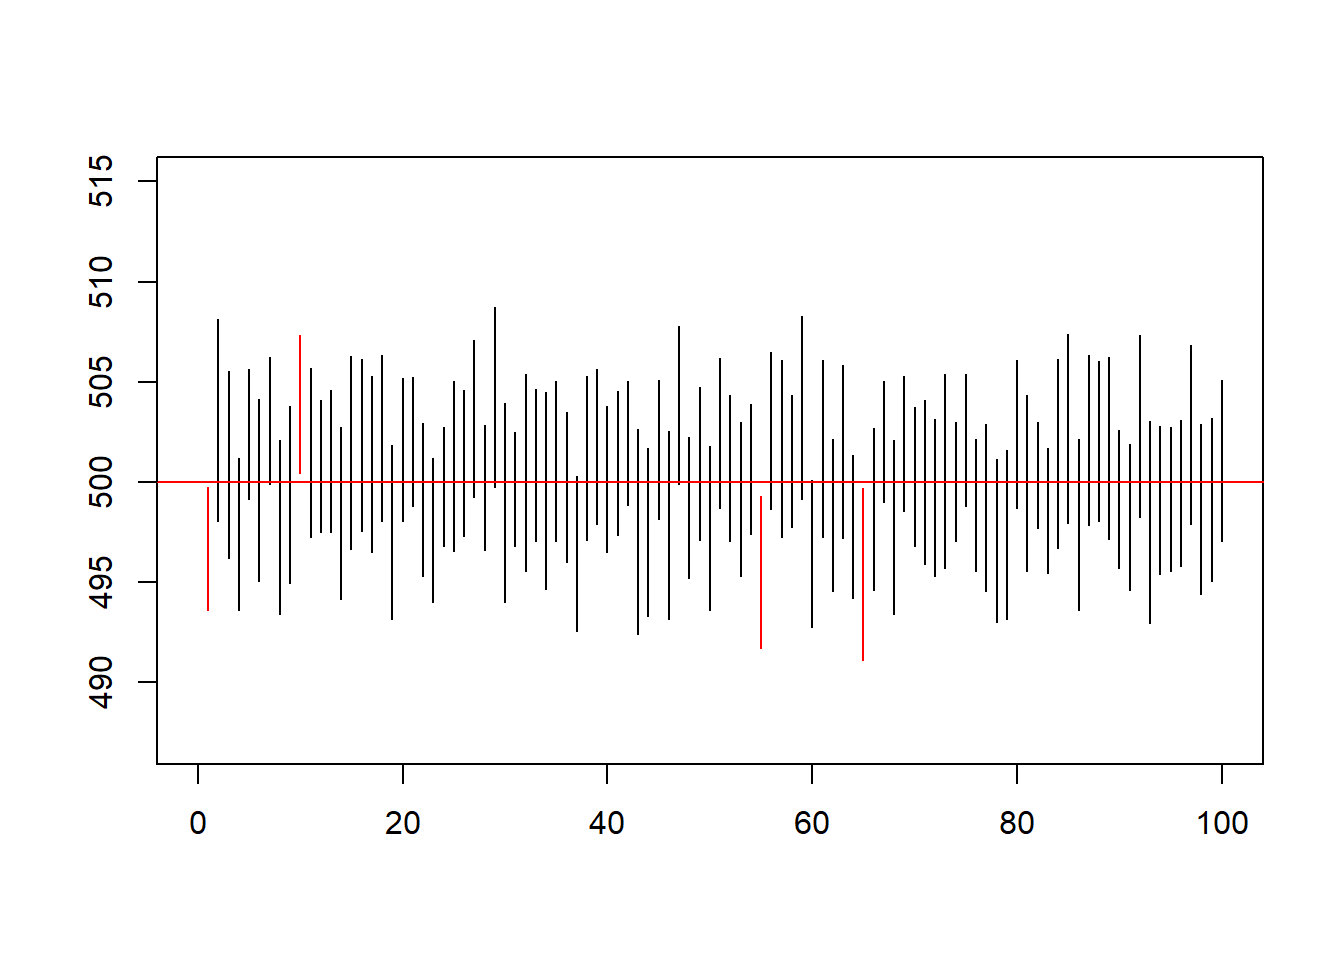
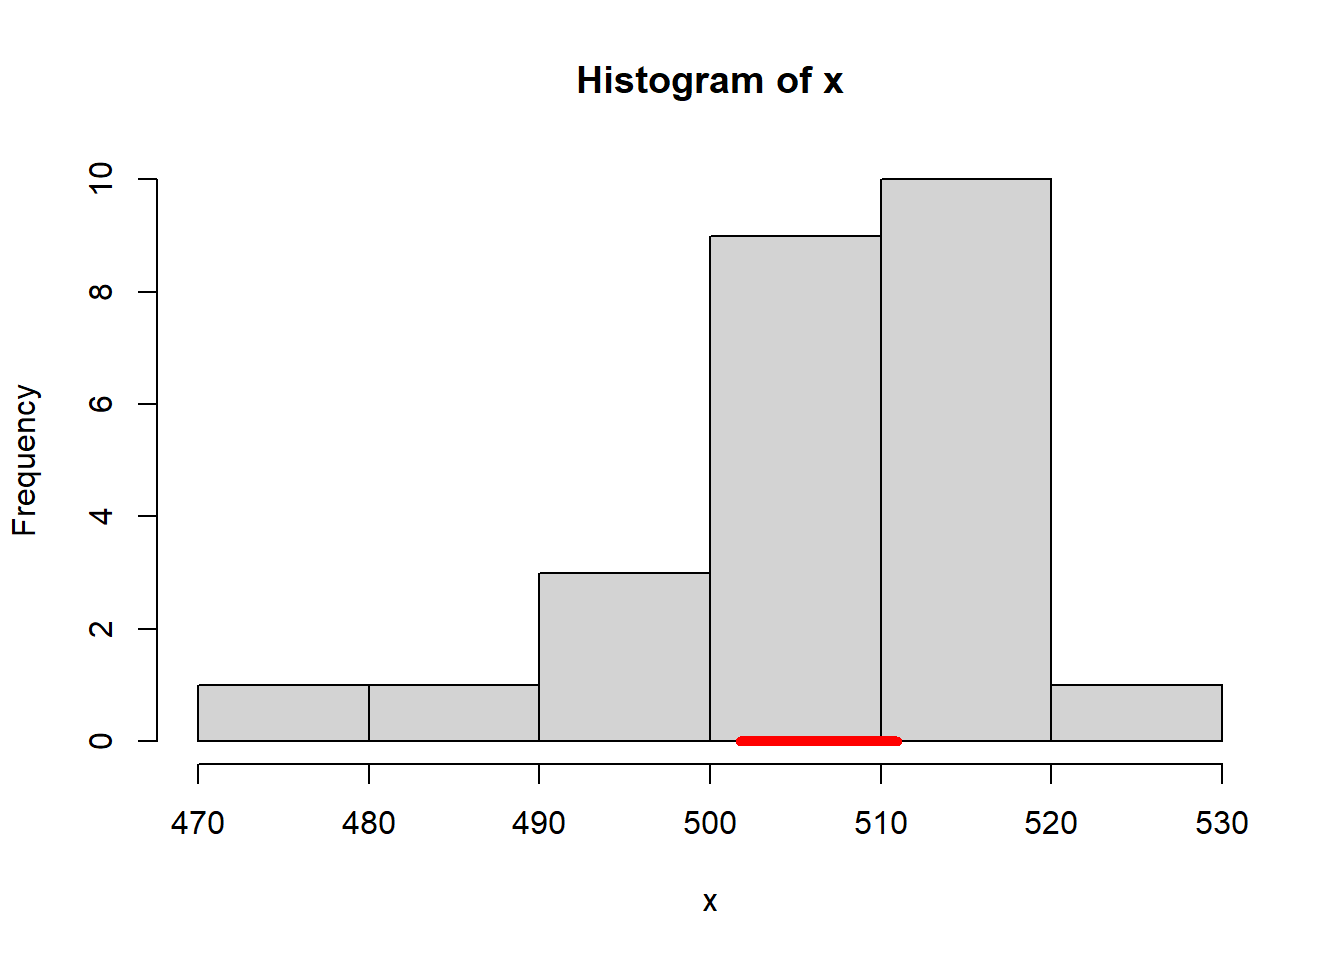
Ex4

diff --git a/_site/Exercise04.html b/_site/Exercise04.html
@@ -434,15 +434,45 @@ low = rnorm(n = n, mean = 50, sd = 10)
 high = rnorm(n = n, mean = 60, sd = 10)</code></pre>
 <p>In a real-world experiment you would first check whether your data is normally distributed (necessary for t-test). Draw quantile-quantile plots (QQ-plots) to check the normality-assumption (<strong><tt>qqnorrm</tt></strong>,<strong><tt>qqline</tt></strong>).</p>
 <div class="fold s o">
-
+<pre class="r"><code>par(mfrow=c(1,2))
+qqnorm(low,main=&#39;low&#39;)
+qqline(low)
+qqnorm(high,main=&#39;high&#39;)
+qqline(high)</code></pre>
+<p><img src="Exercise04_files/figure-html/unnamed-chunk-2-1.png" width="672" /></p>
 </div>
 <p>Illustrate the sample values by box-plots and histograms to check whether the assumption of equal variances seems reasonable.</p>
 <div class="fold s o">
-
+<pre class="r"><code>boxplot(low, high, names=c(&quot;low&quot;, &quot;high&quot;),cex.lab=1.5, cex.axis=1.5,col=c(2,3))
+grid()</code></pre>
+<p><img src="Exercise04_files/figure-html/unnamed-chunk-3-1.png" width="672" /></p>
+<pre class="r"><code>hist(low, border=2, xlim=c(0, 100), ylim=c(0, 0.5*n), density=5, col=2)
+hist(high, border=3, add=TRUE, density=2.5, col=3)</code></pre>
+<p><img src="Exercise04_files/figure-html/unnamed-chunk-3-2.png" width="672" /></p>
 </div>
 <p>Perform the t-test (<strong><tt>t.test</tt></strong>).</p>
 <div class="fold s o">
-
+<pre class="r"><code>a = t.test(low, high)
+a = t.test(low, high, var.equal = TRUE)
+#a = t.test(low, high, paired = FALSE,
+#                      alternative = &quot;two-sided&quot;,
+#                      conf.level = 0.95)
+a</code></pre>
+<pre><code>## 
+##  Two Sample t-test
+## 
+## data:  low and high
+## t = -7.8758, df = 198, p-value = 2.19e-13
+## alternative hypothesis: true difference in means is not equal to 0
+## 95 percent confidence interval:
+##  -13.014823  -7.802415
+## sample estimates:
+## mean of x mean of y 
+##  49.68831  60.09693</code></pre>
+<pre class="r"><code># mean difference
+a$estimate[1] - a$estimate[2]</code></pre>
+<pre><code>## mean of x 
+## -10.40862</code></pre>
 </div>
 <p>Interpret the results.</p>
 </div>
@@ -450,12 +480,27 @@ high = rnorm(n = n, mean = 60, sd = 10)</code></pre>
 <h2>Exercise 4.2</h2>
 <p>Repeat the above computer simulation with sample sizes <span class="math inline">\(n=5\)</span> per group. Analyze whether the test results lead to a false positive or false negative decision.</p>
 <div class="fold s o">
-
+<pre class="r"><code>set.seed(1)
+n = 5 ### Sample Size
+low = rnorm(n=n, mean=50, sd=10)
+high = rnorm(n=n, mean=60, sd=10)
+t.test(low, high, var.equal = TRUE)</code></pre>
+<pre><code>## 
+##  Two Sample t-test
+## 
+## data:  low and high
+## t = -1.921, df = 8, p-value = 0.09098
+## alternative hypothesis: true difference in means is not equal to 0
+## 95 percent confidence interval:
+##  -22.133561   2.016246
+## sample estimates:
+## mean of x mean of y 
+##  51.29270  61.35136</code></pre>
 </div>
 </div>
 <div id="exercise-4.3" class="section level2">
 <h2>Exercise 4.3</h2>
-<p>Load the data frame in the <strong><tt>dimarta_trial.csv</tt></strong> file.</p>
+<p>Load the data frame in the <a href="./data/dimarta_trial.csv" download><tt>dimarta_trial.csv</tt></a> file.</p>
 <pre class="r"><code>dimarta_df&lt;-read.csv(&#39;./data/dimarta_trial.csv&#39;,sep=&#39;,&#39;)
 str(dimarta_df)</code></pre>
 <pre><code>## &#39;data.frame&#39;:    296 obs. of  6 variables:
@@ -467,23 +512,101 @@ str(dimarta_df)</code></pre>
 ##  $ qol_end        : int  3 4 2 3 7 2 6 2 3 1 ...</code></pre>
 <p>Compute the difference between <strong><tt>histamine_end</tt></strong> level and <strong><tt>histamine_start</tt></strong> level and add the data to the data frame.</p>
 <div class="fold s">
-
+<pre class="r"><code>dimarta_df$histamine_change&lt;-with(dimarta_df,histamine_end - histamine_start)</code></pre>
 </div>
 <p>Use boxplots to check whether the assumption of equal variances of histamine changes between arms seems reasonable .</p>
 <div class="fold s o">
-
+<pre class="r"><code>armI&lt;-subset(dimarta_df,arm==&#39;I&#39;)$histamine_change
+armII&lt;-subset(dimarta_df,arm==&#39;II&#39;)$histamine_change
+armIII&lt;-subset(dimarta_df,arm==&#39;III&#39;)$histamine_change
+boxplot(armI,armII,armIII,names=c(&#39;arm I&#39;,&#39;arm II&#39;,&#39;arm III&#39;),
+        col=c(&#39;coral1&#39;,&#39;lightskyblue&#39;,&#39;mediumspringgreen&#39;))
+grid()</code></pre>
+<p><img src="Exercise04_files/figure-html/unnamed-chunk-8-1.png" width="672" /></p>
 </div>
 <p>Check whether your data is normally distributed (necessary for t-test). Draw quantile-quantile plots (QQ-plots) to check the normality-assumption,(<strong><tt>qqnorrm</tt></strong>,<strong><tt>qqline</tt></strong>).</p>
 <div class="fold s o">
-
+<pre class="r"><code>par(mfrow=c(1,3))
+qqnorm(armI,main=&#39;arm I&#39;,col=&#39;coral1&#39;)
+qqline(armI)
+qqnorm(armII,main=&#39;arm II&#39;,col=&#39;lightskyblue&#39;,ylab=NA)
+qqline(armII)
+qqnorm(armIII,main=&#39;arm III&#39;,col=&#39;mediumspringgreen&#39;,ylab=NA)
+qqline(armIII)</code></pre>
+<p><img src="Exercise04_files/figure-html/unnamed-chunk-9-1.png" width="672" /></p>
 </div>
 <p>To check this you can also use the Shapiro-Wilk’s test, where The null hypothesis is that the data are normally distributed (<strong><tt>shapiro.test</tt></strong>).</p>
 <div class="fold s o">
-
+<pre class="r"><code>shapiro.test(armI)
+## 
+##  Shapiro-Wilk normality test
+## 
+## data:  armI
+## W = 0.99133, p-value = 0.7977
+shapiro.test(armII)
+## 
+##  Shapiro-Wilk normality test
+## 
+## data:  armII
+## W = 0.98671, p-value = 0.4717
+shapiro.test(armIII)
+## 
+##  Shapiro-Wilk normality test
+## 
+## data:  armIII
+## W = 0.98543, p-value = 0.4073</code></pre>
 </div>
 <p>Let treatment arm I be the control arm and II and III two new types of drugs. Check if the population means of arm I and II are equal, then do the same for arm I and III (<strong><tt>t.test</tt></strong>).</p>
 <div class="fold s o">
-
+<pre class="r"><code>#when the variance are not equal we the Welch t-test
+t.test(armI,armII)
+## 
+##  Welch Two Sample t-test
+## 
+## data:  armI and armII
+## t = 3.6231, df = 185.99, p-value = 0.0003755
+## alternative hypothesis: true difference in means is not equal to 0
+## 95 percent confidence interval:
+##  1.158997 3.930029
+## sample estimates:
+## mean of x mean of y 
+## 2.7351579 0.1906452
+t.test(armI,armII,var.equal = TRUE)
+## 
+##  Two Sample t-test
+## 
+## data:  armI and armII
+## t = 3.6225, df = 186, p-value = 0.0003762
+## alternative hypothesis: true difference in means is not equal to 0
+## 95 percent confidence interval:
+##  1.158791 3.930235
+## sample estimates:
+## mean of x mean of y 
+## 2.7351579 0.1906452
+t.test(armI,armIII)
+## 
+##  Welch Two Sample t-test
+## 
+## data:  armI and armIII
+## t = 0.55219, df = 181.12, p-value = 0.5815
+## alternative hypothesis: true difference in means is not equal to 0
+## 95 percent confidence interval:
+##  -1.056181  1.877047
+## sample estimates:
+## mean of x mean of y 
+##  2.735158  2.324725
+t.test(armI,armIII,var.equal = TRUE)
+## 
+##  Two Sample t-test
+## 
+## data:  armI and armIII
+## t = 0.55318, df = 184, p-value = 0.5808
+## alternative hypothesis: true difference in means is not equal to 0
+## 95 percent confidence interval:
+##  -1.053399  1.874264
+## sample estimates:
+## mean of x mean of y 
+##  2.735158  2.324725</code></pre>
 </div>
 <p>Interpret the results of the test.</p>
 </div>

diff --git a/_site/Exercise03.html b/_site/Exercise03.html
@@ -461,18 +461,18 @@ for(i in 1:3){
   # To understand the process we print the first three rows of M at each step
   print(head(M,n=3))
 }</code></pre>
-<pre><code>##            [,1]
-## [1,] 21.5500362
-## [2,]  3.8846085
-## [3,]  0.7683132
-##            [,1]     [,2]
-## [1,] 21.5500362 18.95524
-## [2,]  3.8846085 62.19358
-## [3,]  0.7683132  1.31099
-##            [,1]     [,2]     [,3]
-## [1,] 21.5500362 18.95524 90.29713
-## [2,]  3.8846085 62.19358 23.47993
-## [3,]  0.7683132  1.31099  8.11828</code></pre>
+<pre><code>##           [,1]
+## [1,] 43.767234
+## [2,]  2.147137
+## [3,]  8.291597
+##           [,1]     [,2]
+## [1,] 43.767234 7.970347
+## [2,]  2.147137 4.180766
+## [3,]  8.291597 3.869878
+##           [,1]     [,2]     [,3]
+## [1,] 43.767234 7.970347 14.01081
+## [2,]  2.147137 4.180766 82.19909
+## [3,]  8.291597 3.869878 26.38574</code></pre>
 </div>
 <p>For each column, we want to calculate the mean.</p>
 <div class="fold s o">
@@ -505,8 +505,8 @@ for(i in 1:3){
 </div>
 <div id="exercises" class="section level1">
 <h1>Exercises</h1>
-<div id="exercise-4.1" class="section level2">
-<h2>Exercise 4.1</h2>
+<div id="exercise-3.1" class="section level2">
+<h2>Exercise 3.1</h2>
 <p>Draw 10 random samples of size <span class="math inline">\(N = 5\)</span> from the standard normal distribution (<span class="math inline">\(\mu\)</span> = 0, <span class="math inline">\(\sigma\)</span> = 1),<strong><tt>rnorm()</tt></strong>. Calculate the mean of each sample. Calculate the mean of all 10 means.</p>
 <div class="fold s o">
 <pre class="r"><code># Sample creation
@@ -535,9 +535,9 @@ for(j in 1:10){
 M_mean&lt;-mean(M_col_mean)
 M_col_mean
 M_mean</code></pre>
-<pre><code>##  [1]  0.121160655 -0.655483729 -1.006837980  0.335851941  0.009313196
-##  [6] -0.263104390 -0.045576943 -0.331893192 -0.575652771 -0.796777845
-## [1] -0.3209001</code></pre>
+<pre><code>##  [1]  0.18432377  0.38492922 -0.26686445 -0.17202693  0.48437414  0.03589472
+##  [7]  0.55124086 -0.23937164  0.49740562  0.22257164
+## [1] 0.1682477</code></pre>
 </div>
 <p>Plot the density function of the standard normal distribution. Using the function <strong><tt>points()</tt></strong> draw the sample means and the mean of means into the plot.</p>
 <div class="fold s o">
@@ -577,7 +577,7 @@ points(M_mean, y = 0, pch=4, col=2, lwd=3)</code></pre>
 <div id="exercise-3.2" class="section level2">
 <h2>Exercise 3.2</h2>
 <p>A producer gives the information that the content of a pharmaceutical substance in the tablets of some preparation A is normally distributed with an expectation of 500 mg and with a variance of 10mg. To check this claim, the contents of 25 randomly chosen tablets are determined.</p>
-Load the <a href="./data/study3.csv" download><tt>study3.csv()</tt></a> data frame and plot the histogram of the data, remember to select a reasonable choice of the parameter <strong><tt>breaks</tt></strong>.
+Load the <a href="./data/study3.csv" download><tt>study3.csv</tt></a> data frame and plot the histogram of the data, remember to select a reasonable choice of the parameter <strong><tt>breaks</tt></strong>.
 <div class="fold s o">
 <pre class="r"><code>x&lt;-read.table(&quot;./data/study3.csv&quot;,sep=&quot;;&quot;,header = TRUE)[[1]] # the values are separated by ; in the csv file
 hist(x,breaks = 7)</code></pre>
@@ -606,7 +606,12 @@ upper_bound&lt;-MEAN + Z * SEM # Upper Bound
 print(paste0(&#39;the confidence interval is [&#39;,round(lower_bound,2),&#39;,&#39;,round(upper_bound,2),&#39;]&#39;))</code></pre>
 <pre><code>## [1] &quot;the confidence interval is [501.74,510.97]&quot;</code></pre>
 </div>
-<p>Plot the confidence interval against the histogram.</p>
+<p>Plot the confidence interval against the histogram, use <strong><tt>segment</tt></strong> function.</p>
+<div class="fold s o">
+<pre class="r"><code>hist(x,breaks = 7)
+segments(x0=round(lower_bound,2), y0=0, x1 = round(upper_bound,2), y1 = 0,col=&#39;red&#39;,lwd=5)</code></pre>
+<p><img src="Exercise03_files/figure-html/unnamed-chunk-12-1.png" width="672" /></p>
+</div>
 <p>Given the confidence intervals, could you trust the producer? Change</p>
 <ol style="list-style-type: decimal">
 <li>the sample size</li>
@@ -644,7 +649,7 @@ for(j in 1:100){
   segments(x0=j,y0=M_conf[1,j],x1=j,y1=M_conf[2,j],col=ifelse((M_conf[1,j]&lt;=500 &amp; 500&lt;=M_conf[2,j]),&#39;black&#39;,&#39;red&#39;))
 }
 abline(h=500,col=&#39;red&#39;)</code></pre>
-<p><img src="Exercise03_files/figure-html/unnamed-chunk-12-1.png" width="80%" style="display: block; margin: auto;" /></p>
+<p><img src="Exercise03_files/figure-html/unnamed-chunk-13-1.png" width="80%" style="display: block; margin: auto;" /></p>
 </div>
 </div>
 </div>
